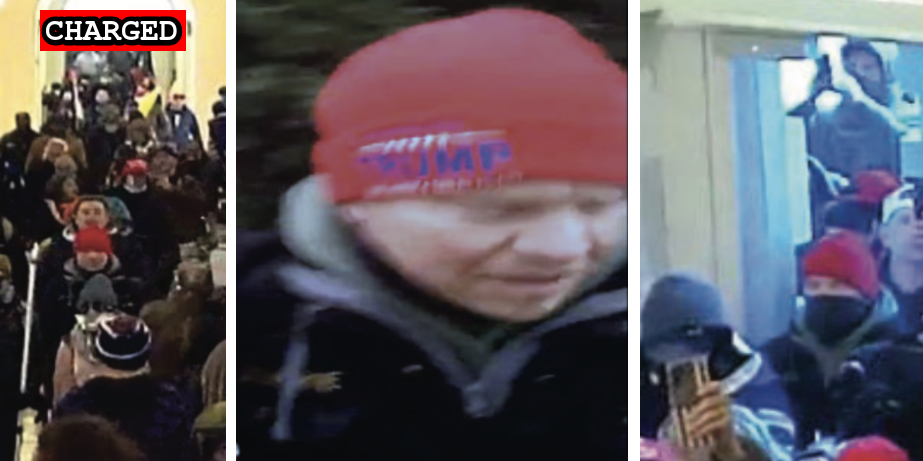
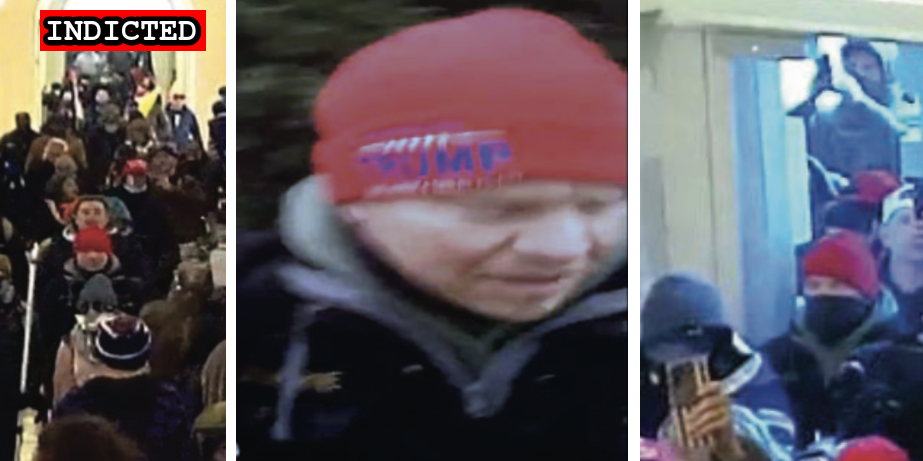
Moar indictments

Changed region(s): [[0.0303, 0.0, 0.2427, 0.1215]]

diff --git a/commands/suspect-verify.ts b/commands/suspect-verify.ts
@@ -25,7 +25,7 @@ const doVerify = () => {
     }
 
     if (suspect.status == "Indicted" && !suspect.indicted) {
-      if (!suspect.name.includes("Pruitt")) {
+      if (!suspect.name.includes("Pruitt") &&  !suspect.name.includes("Ehrke") && !suspect.name.includes("Loftus")) {
         exitWithError(`Missing indictment date for ${suspect.name}`);
       }
     }

diff --git a/docs/_suspects/ronald-sandlin.md b/docs/_suspects/ronald-sandlin.md
@@ -3,10 +3,10 @@ name: Ronald Sandlin
 lastName: Sandlin
 aka:
 residence: Tennessee
-status: Charged
+status: Indicted
 date: 2021-01-28
 charged: 2021-01-28
-indicted:
+indicted: 2021-02-05
 age:
 occupation:
 affiliations:
@@ -18,7 +18,7 @@ courtroom:
 courthouse:
 raid:
 perpwalk:
-quote: "We are not terrorists. We occupied and for the most part left that place relatively put together all things considered"
+quote: 'We are not terrorists. We occupied and for the most part left that place relatively put together all things considered'
 title: Ronald Sandlin charged on January 28th, 2021
 description: Click for latest case details. Suspects innocent until proven guilty.
 author: seditiontrack
@@ -26,7 +26,9 @@ layout: suspect
 published: true
 charges:
 ---
+
 - [NewsReport](https://wreg.com/news/fbi-says-social-media-posts-link-man-charged-in-capitol-riot-to-memphis/)
 - [Complaint](https://www.justice.gov/opa/page/file/1362396/download)
 - [Statement of Facts](https://www.justice.gov/opa/page/file/1362396/download)
 - [Self Incrimination (VIDEO)](https://twitter.com/angelmercedes/status/1347959031080624128?s=20)
+- [Indictment](https://www.justice.gov/usao-dc/case-multi-defendant/file/1366141/download)

diff --git a/docs/_suspects/vaughn-gordon.md b/docs/_suspects/vaughn-gordon.md
@@ -3,10 +3,10 @@ name: Vaughn Gordon
 lastName: Gordon
 aka:
 residence: Louisiana
-status: Charged
+status: Indicted
 date: 2021-01-14
 charged: 2021-01-14
-indicted:
+indicted: 2021-02-09
 age: 50
 occupation:
 affiliations:
@@ -18,7 +18,7 @@ courtroom:
 courthouse:
 raid:
 perpwalk:
-quote: "You’re looking at what by mandate is a felon because I entered into the Capitol during the riot"
+quote: 'You’re looking at what by mandate is a felon because I entered into the Capitol during the riot'
 title: Vaughn Gordon charged on January 14, 2021
 description: Click for latest case details. Suspects considered innocent until proven guilty.
 author: seditiontrack
@@ -26,6 +26,8 @@ layout: suspect
 published: true
 charges:
 ---
+
 - [News Report](https://www.theadvocate.com/acadiana/news/article_489d5514-56b3-11eb-bbbb-2b9a6a6e6984.html)
 - [Complaint](https://www.justice.gov/opa/page/file/1354986/download)
 - [Statement of Facts](https://www.justice.gov/opa/page/file/1354991/download)
+- [Indictment](https://www.justice.gov/usao-dc/case-multi-defendant/file/1366086/download)

diff --git a/docs/_suspects/jorge-riley.md b/docs/_suspects/jorge-riley.md
@@ -3,10 +3,10 @@ name: Jorge Riley
 lastName: Riley
 aka:
 residence: California
-status: Charged
+status: Indicted
 date: 2021-01-19
 charged: 2021-01-19
-indicted:
+indicted: 2021-02-03
 age: 42
 occupation:
 affiliations:
@@ -18,7 +18,7 @@ courtroom:
 courthouse:
 raid:
 perpwalk:
-quote: "We broke windows. We went into the door. We pushed our way in."
+quote: 'We broke windows. We went into the door. We pushed our way in.'
 title: Jorge Riley charged on January 19, 2021
 description: Click for latest case details. Suspects innocent until proven guilty.
 author: seditiontrack
@@ -26,7 +26,9 @@ layout: suspect
 published: true
 charges:
 ---
+
 - [News Report](https://nypost.com/2021/01/19/gop-activist-jorge-riley-arrested-in-capitol-hill-attack/)
 - [Statement of Facts](https://www.justice.gov/opa/page/file/1357041/download)
 - [Complaint](https://www.justice.gov/opa/page/file/1357046/download)
 - [Self Incrimination](https://twitter.com/indianz/status/1350168282519777283)
+- [Indictment](https://www.justice.gov/usao-dc/case-multi-defendant/file/1366116/download)

diff --git a/docs/_suspects/kevin-lyons.md b/docs/_suspects/kevin-lyons.md
@@ -3,10 +3,10 @@ name: Kevin Lyons
 lastName: Lyons
 aka:
 residence: Illinois
-status: Charged
+status: Indicted
 date: 2021-01-13
 charged: 2021-01-13
-indicted:
+indicted: 2021-02-03
 age: 40
 occupation:
 affiliations:
@@ -18,7 +18,7 @@ courtroom:
 courthouse:
 raid:
 perpwalk:
-quote: "Wow you are pretty good that was up for only an hour"
+quote: 'Wow you are pretty good that was up for only an hour'
 title: Kevin Lyons charged on January 13, 2021
 description: Click for latest case details. Suspects considered innocent until proven guilty.
 author: seditiontrack
@@ -26,6 +26,8 @@ layout: suspect
 published: true
 charges:
 ---
+
 - [News Report: Arrest](https://chicago.suntimes.com/2021/1/13/22229436/chicago-man-facing-federal-charges-following-last-weeks-u-s-capitol-riot)
 - [Complaint](https://cdn.vox-cdn.com/uploads/chorus_asset/file/22233841/Lyons_complaint__DCD_.pdf)
 - [Statement of Facts](https://www.justice.gov/opa/page/file/1353451/download)
+- [Indictment](https://www.justice.gov/usao-dc/case-multi-defendant/file/1366106/download)

diff --git a/docs/_suspects/gracyn-courtright.md b/docs/_suspects/gracyn-courtright.md
@@ -3,10 +3,10 @@ name: Gracyn Courtright
 lastName: Courtright
 aka:
 residence: West Virginia
-status: Charged
+status: Indicted
 date: 2021-01-16
 charged: 2021-01-16
-indicted:
+indicted: 2021-02-03
 age: 23
 occupation:
 affiliations:
@@ -26,7 +26,9 @@ layout: suspect
 published: true
 charges:
 ---
+
 - [News Report](https://www.thedailybeast.com/latest-round-of-capitol-riot-arrests-outed-themselves-on-social-media)
 - [Complaint](https://www.courtlistener.com/recap/gov.uscourts.dcd.226140/gov.uscourts.dcd.226140.1.1.pdf?fbclid=IwAR3-9Irq5mTP7Byu1S7TYTAzPr0yHYf1q9x5jEu_9EcltQfOaBb7DsjvJHI)
 - [Self Incrimination](https://twitter.com/GarrettWKYT/status/1350966875136667654?s=20)
 - [Statement of Facts](https://www.justice.gov/opa/page/file/1360196/download)
+- [Indictment](https://www.justice.gov/usao-dc/case-multi-defendant/file/1366056/download)

diff --git a/docs/_suspects/jacob-lewis.md b/docs/_suspects/jacob-lewis.md
@@ -3,10 +3,10 @@ name: Jacob Lewis
 lastName: Lewis
 aka:
 residence: California
-status: Charged
+status: Indicted
 date: 2021-01-27
 charged: 2021-01-27
-indicted:
+indicted: 2021-02-09
 age: 37
 occupation: Gym Owner
 affiliations:
@@ -26,7 +26,9 @@ layout: suspect
 published: true
 charges:
 ---
+
 - [NewsReport](https://www.washingtonpost.com/nation/2021/01/29/jacob-lewis-capitol-riot-gym/)
 - [Complaint](https://www.justice.gov/opa/page/file/1361031/download)
 - [Statement of Facts](https://www.justice.gov/opa/page/file/1361031/download)
 - [FBI Statement (Twitter)](https://twitter.com/FBILosAngeles/status/1354611293324505090?s=20)
+- [Indictment](https://www.justice.gov/usao-dc/case-multi-defendant/file/1366096/download)

diff --git a/docs/_suspects/michael-stepakoff.md b/docs/_suspects/michael-stepakoff.md
@@ -3,10 +3,10 @@ name: Michael Stepakoff
 lastName: Stepakoff
 aka:
 residence: Florida
-status: Charged
+status: Indicted
 date: 2021-01-29
 charged: 2021-01-29
-indicted:
+indicted: 2021-02-09
 age: 55
 occupation: Messianic Rabbi
 affiliations: Temple New Jerusalem
@@ -26,6 +26,8 @@ layout: suspect
 published: true
 charges:
 ---
+
 - [NewsReport](https://www.wfla.com/news/pinellas-county/palm-harbor-rabbi-arrested-accused-of-storming-us-capitol-on-jan-6/)
 - [Complaint](https://www.justice.gov/opa/page/file/1362386/download)
 - [Statement of Facts](https://www.justice.gov/opa/page/file/1362386/download)
+- [Indictment](https://www.justice.gov/usao-dc/case-multi-defendant/file/1366131/download)

diff --git a/docs/_suspects/eliel-rosa.md b/docs/_suspects/eliel-rosa.md
@@ -3,10 +3,10 @@ name: Eliel Rosa
 lastName: Rosa
 aka:
 residence: Texas
-status: Charged
+status: Indicted
 date: 2021-01-13
 charged: 2021-01-13
-indicted:
+indicted: 2021-02-03
 age: 53
 occupation:
 affiliations:
@@ -26,6 +26,8 @@ layout: suspect
 published: true
 charges:
 ---
+
 - [News Report](https://www.kiiitv.com/article/news/local/jenny-cudd-fbi-arrested/513-fb4ff454-3bf0-4648-8983-660ec8f2601e)
 - [Statement of Facts](https://www.scribd.com/document/490745903/Jenny-Cudd-and-Eliel-Rosa-Statement-of-Facts)
 - [Complaint](https://www.justice.gov/opa/page/file/1353431/download)
+- [Indictment](https://www.justice.gov/usao-dc/case-multi-defendant/file/1366061/download)

diff --git a/docs/_suspects/kevin-loftus.md b/docs/_suspects/kevin-loftus.md
@@ -3,7 +3,7 @@ name: Kevin Loftus
 lastName: Loftus
 aka:
 residence: Wisconsin
-status: Charged
+status: Indicted
 date: 2021-01-12
 charged: 2021-01-12
 indicted:
@@ -31,3 +31,4 @@ charges:
 - [Statement of Facts](https://wqow.com/2021/01/12/what-we-know-about-kevin-loftus-man-charged-for-connection-to-capitol-riot/)
 - [Arrest Warrant](https://extremism.gwu.edu/sites/g/files/zaxdzs2191/f/Kevin%20Daniel%20Loftus%20Arrest%20Warrant.pdf)
 - [Complaint](https://extremism.gwu.edu/sites/g/files/zaxdzs2191/f/Kevin%20Daniel%20Loftus%20Criminal%20Complaint.pdf)
+- [Indictment](https://www.justice.gov/usao-dc/case-multi-defendant/file/1366101/download)

diff --git a/docs/_suspects/valerie-ehrke.md b/docs/_suspects/valerie-ehrke.md
@@ -3,7 +3,7 @@ name: Valerie Ehrke
 lastName: Ehrke
 aka:
 residence: California
-status: Charged
+status: Indicted
 date: 2021-01-19
 charged: 2021-01-19
 indicted:
@@ -29,3 +29,4 @@ charges:
 - [NewsReport](https://sacramento.cbslocal.com/2021/01/20/fbi-arrest-jorge-riley-valerie-ehrke-capitol/)
 - [Complaint](https://www.justice.gov/opa/page/file/1356641/download)
 - [Statement of Facts](https://www.justice.gov/opa/page/file/1356646/download)
+- [Indictment](https://www.justice.gov/usao-dc/case-multi-defendant/file/1366076/download)
